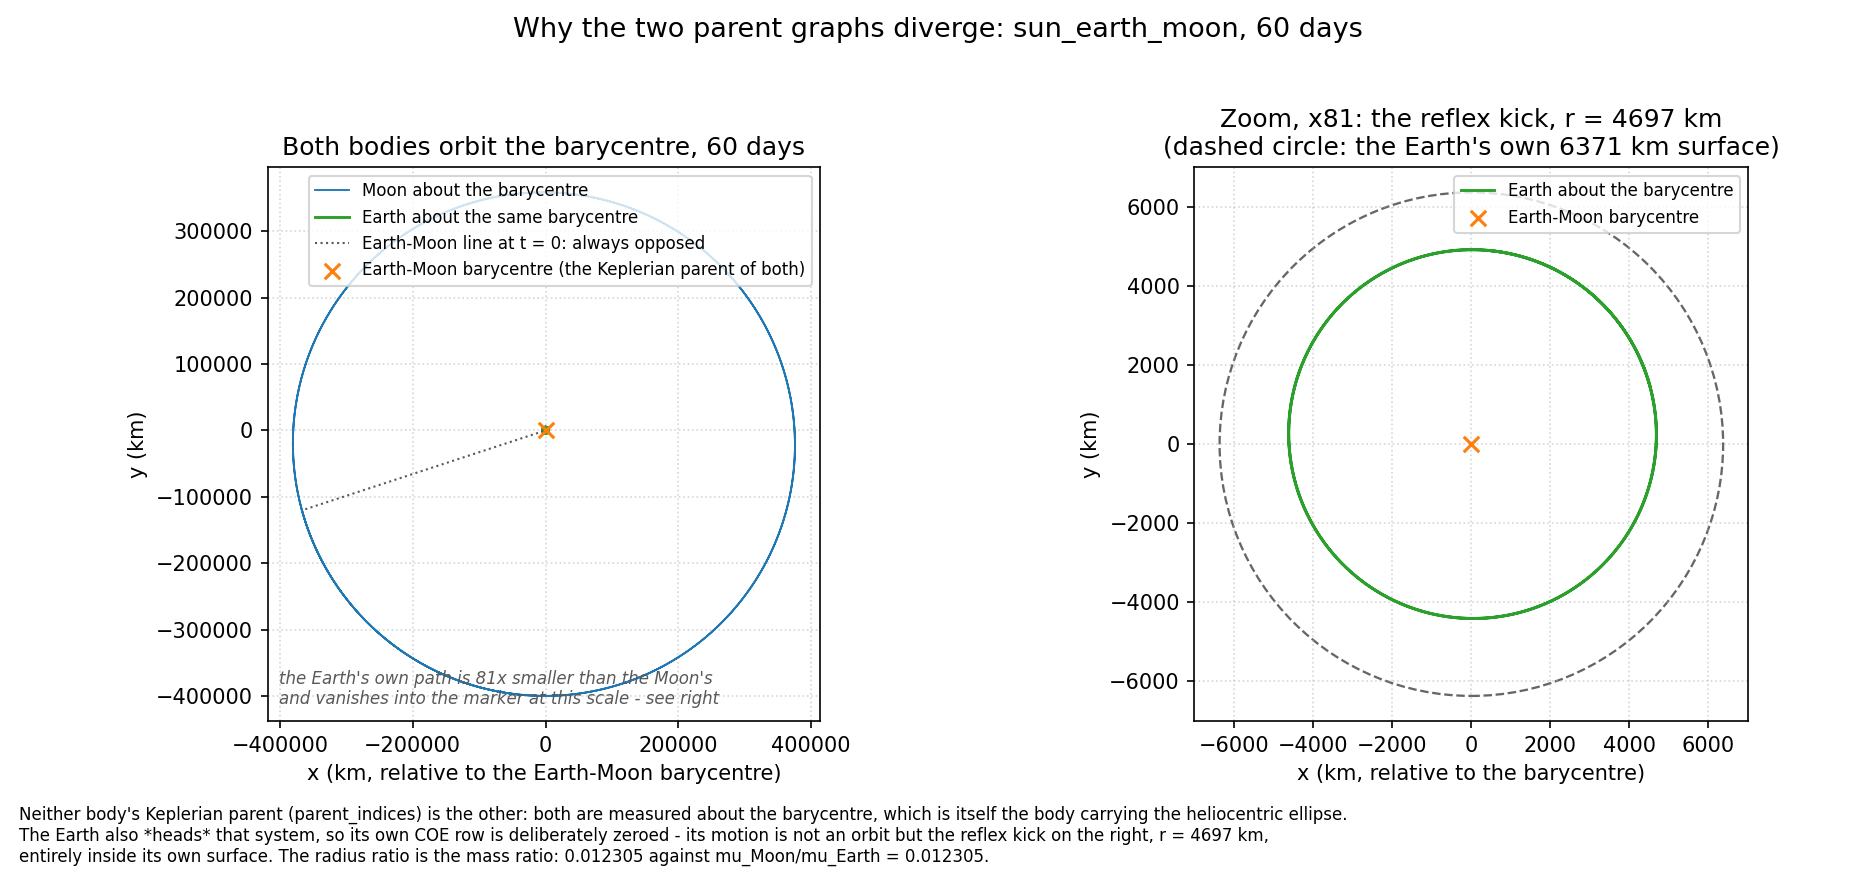
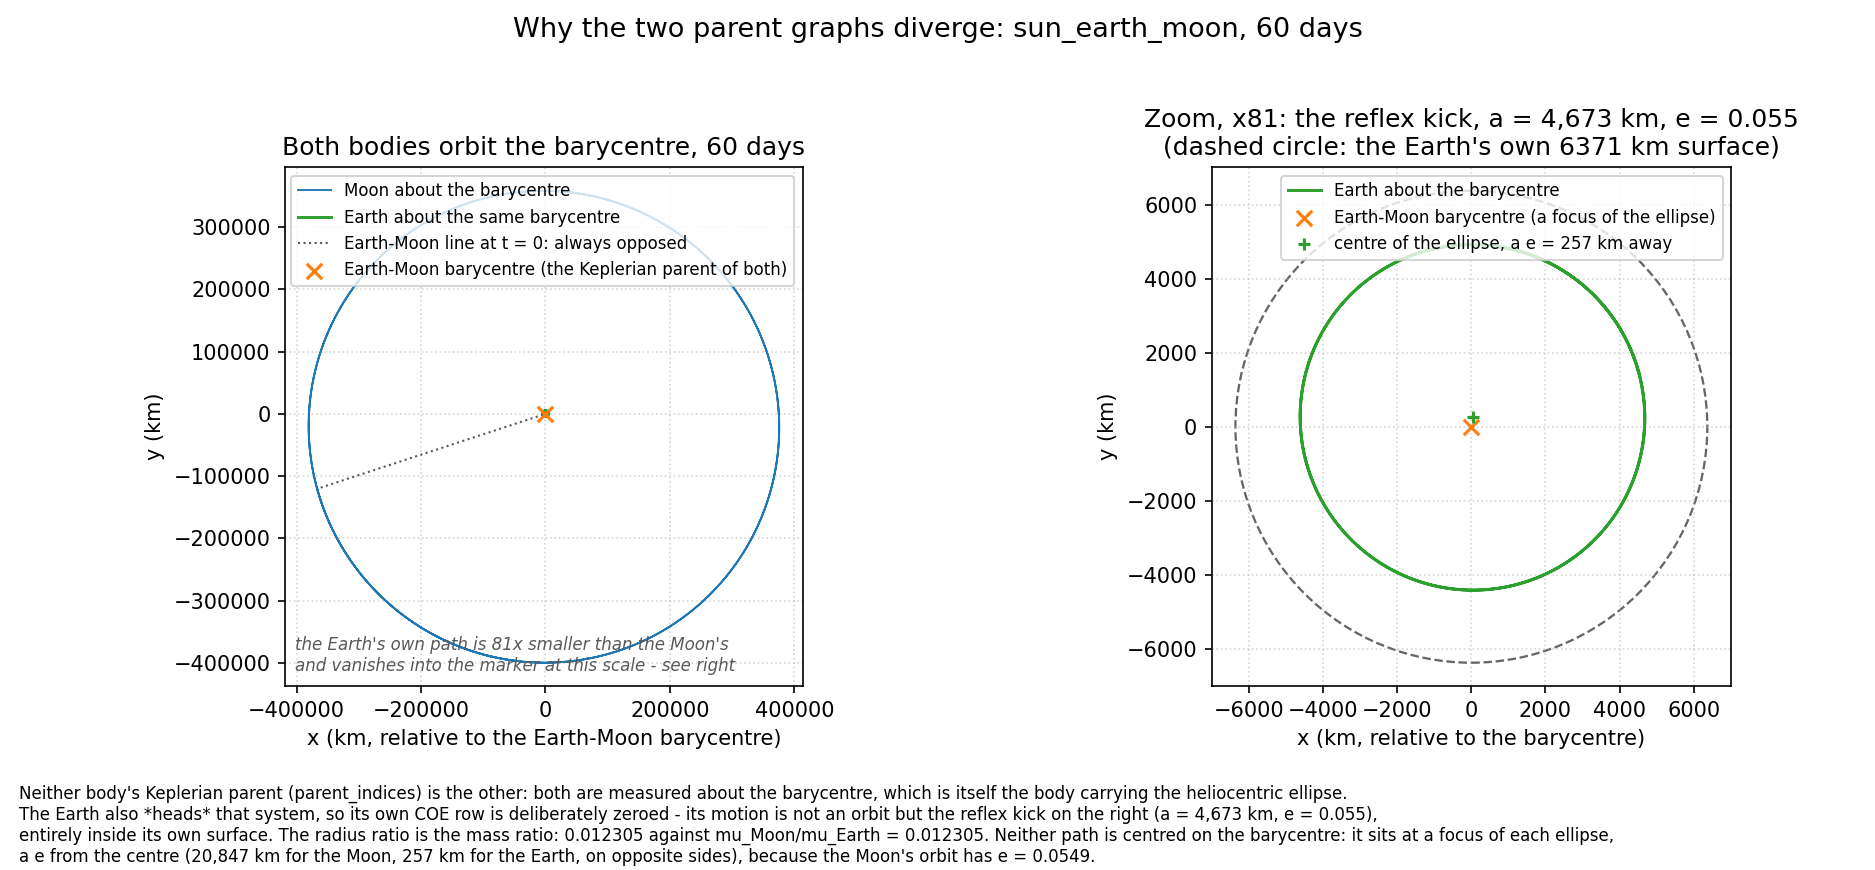
fix(figures): hierarchy figure - the barycentre is a focus, not the centre
The reflex-kick panel labelled the Earth's path "r = 4697 km", as if it were a circle centred on the
barycentre: a 60-day sample mean, and an invitation to read the visible off-centring as a bug. It is
the Moon's eccentricity: both paths are ellipses with the barycentre at a focus, their centres a e
away on opposite sides (measured 20,812 km vs a e 20,847 for the Moon, 256 km vs 256.5 for the Earth).
The panel now gives a = 4,673 km, e = 0.055, marks the ellipse centre, and the caption explains the
focus; the README sentence follows.

diff --git a/benchmarks/figures.py b/benchmarks/figures.py
@@ -130,7 +130,7 @@ presets are from memory, unverified.
 hierarchy visible: relative to the Earth-Moon barycentre. Neither body's `parent_indices` parent is
 the other - both are measured about the barycentre, which is itself the body carrying the
 heliocentric ellipse. The Earth also *heads* that system, so its own COE row is deliberately zeroed
-(`_rehydrate_coes`): its motion is not an orbit but the reflex kick, r = 4697 km, entirely inside its
+(`_rehydrate_coes`): its motion is not an orbit but the reflex kick (a = 4,673 km, e = 0.055), entirely inside its
 own 6371 km surface, which is why the right panel is an 81x zoom. The measured radius ratio is the
 mass ratio to machine precision - 0.01230463 against mu_Moon/mu_Earth = 0.01230463, a relative
 difference of 8e-15 - which is the barycentric model's defining invariant, drawn rather than
@@ -558,6 +558,17 @@ def figure_hierarchy() -> None:
     moon_r = np.linalg.norm(moon_xy, axis=1)
     reflex_r = np.linalg.norm(earth_xy, axis=1)
     ratio = float(np.mean(reflex_r / moon_r))
+
+    def ellipse(xy: np.ndarray, r: np.ndarray) -> tuple[float, float, np.ndarray]:
+        # Semi-major axis and eccentricity from the sampled apsides, and the ellipse's centre: the
+        # midpoint of periapsis and apoapsis. The barycentre is a *focus*, a * e from that centre.
+        a = 0.5 * float(r.min() + r.max())
+        e = float((r.max() - r.min()) / (r.max() + r.min()))
+        centre = 0.5 * (xy[int(np.argmin(r))] + xy[int(np.argmax(r))])
+        return a, e, centre
+
+    moon_a, moon_e, moon_c = ellipse(moon_xy, moon_r)
+    earth_a, earth_e, earth_c = ellipse(earth_xy, reflex_r)
     mass_ratio = scenarios.MU_MOON / scenarios.MU_EARTH
     print(f"  Moon barycentric range {moon_r.min():.0f} .. {moon_r.max():.0f} km")
     print(f"  Earth reflex radius {reflex_r.min():.1f} .. {reflex_r.max():.1f} km "
@@ -565,6 +576,9 @@ def figure_hierarchy() -> None:
     print(f"  radius ratio {ratio:.6f} against the mass ratio mu_Moon/mu_Earth = {mass_ratio:.6f} "
           f"(rel. diff {abs(ratio - mass_ratio) / mass_ratio:.2e})")
     print(f"  Earth COE eccentricity row = {sim.coe_states[earth, 1]:.1f} (zeroed: it is a system head)")
+    print(f"  Moon a {moon_a:.0f} km e {moon_e:.4f}, centre {np.linalg.norm(moon_c[:2]):.0f} km from the barycentre "
+          f"(a e = {moon_a * moon_e:.0f}); Earth a {earth_a:.1f} km e {earth_e:.4f}, centre "
+          f"{np.linalg.norm(earth_c[:2]):.1f} km (a e = {earth_a * earth_e:.1f}), on the opposite side")
 
     fig, (ax_l, ax_r) = plt.subplots(1, 2, figsize=(12.5, 5.8))
 
@@ -593,12 +607,14 @@ def figure_hierarchy() -> None:
     ax_r.add_patch(plt.Circle((0.0, 0.0), scenarios.EARTH_RADIUS, fill=False, ls="--", lw=1.1,
                               color="0.4"))
     ax_r.scatter([0.0], [0.0], s=55, marker="x", color="tab:orange", zorder=4,
-                 label="Earth-Moon barycentre")
+                 label="Earth-Moon barycentre (a focus of the ellipse)")
+    ax_r.scatter([earth_c[0]], [earth_c[1]], s=30, marker="+", color="tab:green", zorder=4,
+                 label=f"centre of the ellipse, a e = {earth_a * earth_e:.0f} km away")
     ax_r.set_aspect("equal")
     ax_r.set_xlabel("x (km, relative to the barycentre)")
     ax_r.set_ylabel("y (km)")
     ax_r.set_title(
-        f"Zoom, x{moon_r.mean() / reflex_r.mean():.0f}: the reflex kick, r = {reflex_r.mean():.0f} km\n"
+        f"Zoom, x{moon_r.mean() / reflex_r.mean():.0f}: the reflex kick, a = {earth_a:,.0f} km, e = {earth_e:.3f}\n"
         f"(dashed circle: the Earth's own {scenarios.EARTH_RADIUS:.0f} km surface)"
     )
     ax_r.grid(True, ls=":", alpha=0.5)
@@ -610,12 +626,15 @@ def figure_hierarchy() -> None:
         f"Neither body's Keplerian parent (parent_indices) is the other: both are measured about the "
         f"barycentre, which is itself the body carrying the heliocentric ellipse.\n"
         f"The Earth also *heads* that system, so its own COE row is deliberately zeroed - its motion is "
-        f"not an orbit but the reflex kick on the right, r = {reflex_r.mean():.0f} km,\n"
+        f"not an orbit but the reflex kick on the right (a = {earth_a:,.0f} km, e = {earth_e:.3f}),\n"
         f"entirely inside its own surface. The radius ratio is the mass ratio: "
-        f"{ratio:.6f} against mu_Moon/mu_Earth = {mass_ratio:.6f}.",
+        f"{ratio:.6f} against mu_Moon/mu_Earth = {mass_ratio:.6f}. Neither path is centred on the barycentre: "
+        f"it sits at a focus of each ellipse,\n"
+        f"a e from the centre ({moon_a * moon_e:,.0f} km for the Moon, {earth_a * earth_e:.0f} km for the Earth, "
+        f"on opposite sides), because the Moon's orbit has e = {moon_e:.4f}.",
         fontsize=8, va="bottom",
     )
-    fig.tight_layout(rect=(0, 0.075, 1, 0.96))
+    fig.tight_layout(rect=(0, 0.115, 1, 0.96))
     _save(fig, "hierarchy.png")
 
 

diff --git a/README.md b/README.md
@@ -384,7 +384,7 @@ alone, and the two rows differ by season.
 `sun_earth_moon` over 60 days, drawn in the barycentric frame. Neither the Earth nor the Moon is the
 other's Keplerian parent: both are measured about the Earth-Moon barycentre, which is the body
 carrying the heliocentric ellipse. The Earth also *heads* that system, so its own element row is
-deliberately zeroed — its motion is not an orbit but a 4697 km reflex kick, entirely inside its own
+deliberately zeroed — its motion is not an orbit but a reflex kick (a = 4,673 km, e = 0.055), entirely inside its own
 surface. The measured radius ratio equals μ_Moon/μ_Earth to **8 × 10⁻¹⁵**, which is the barycentric
 model's defining invariant drawn rather than asserted.
 
